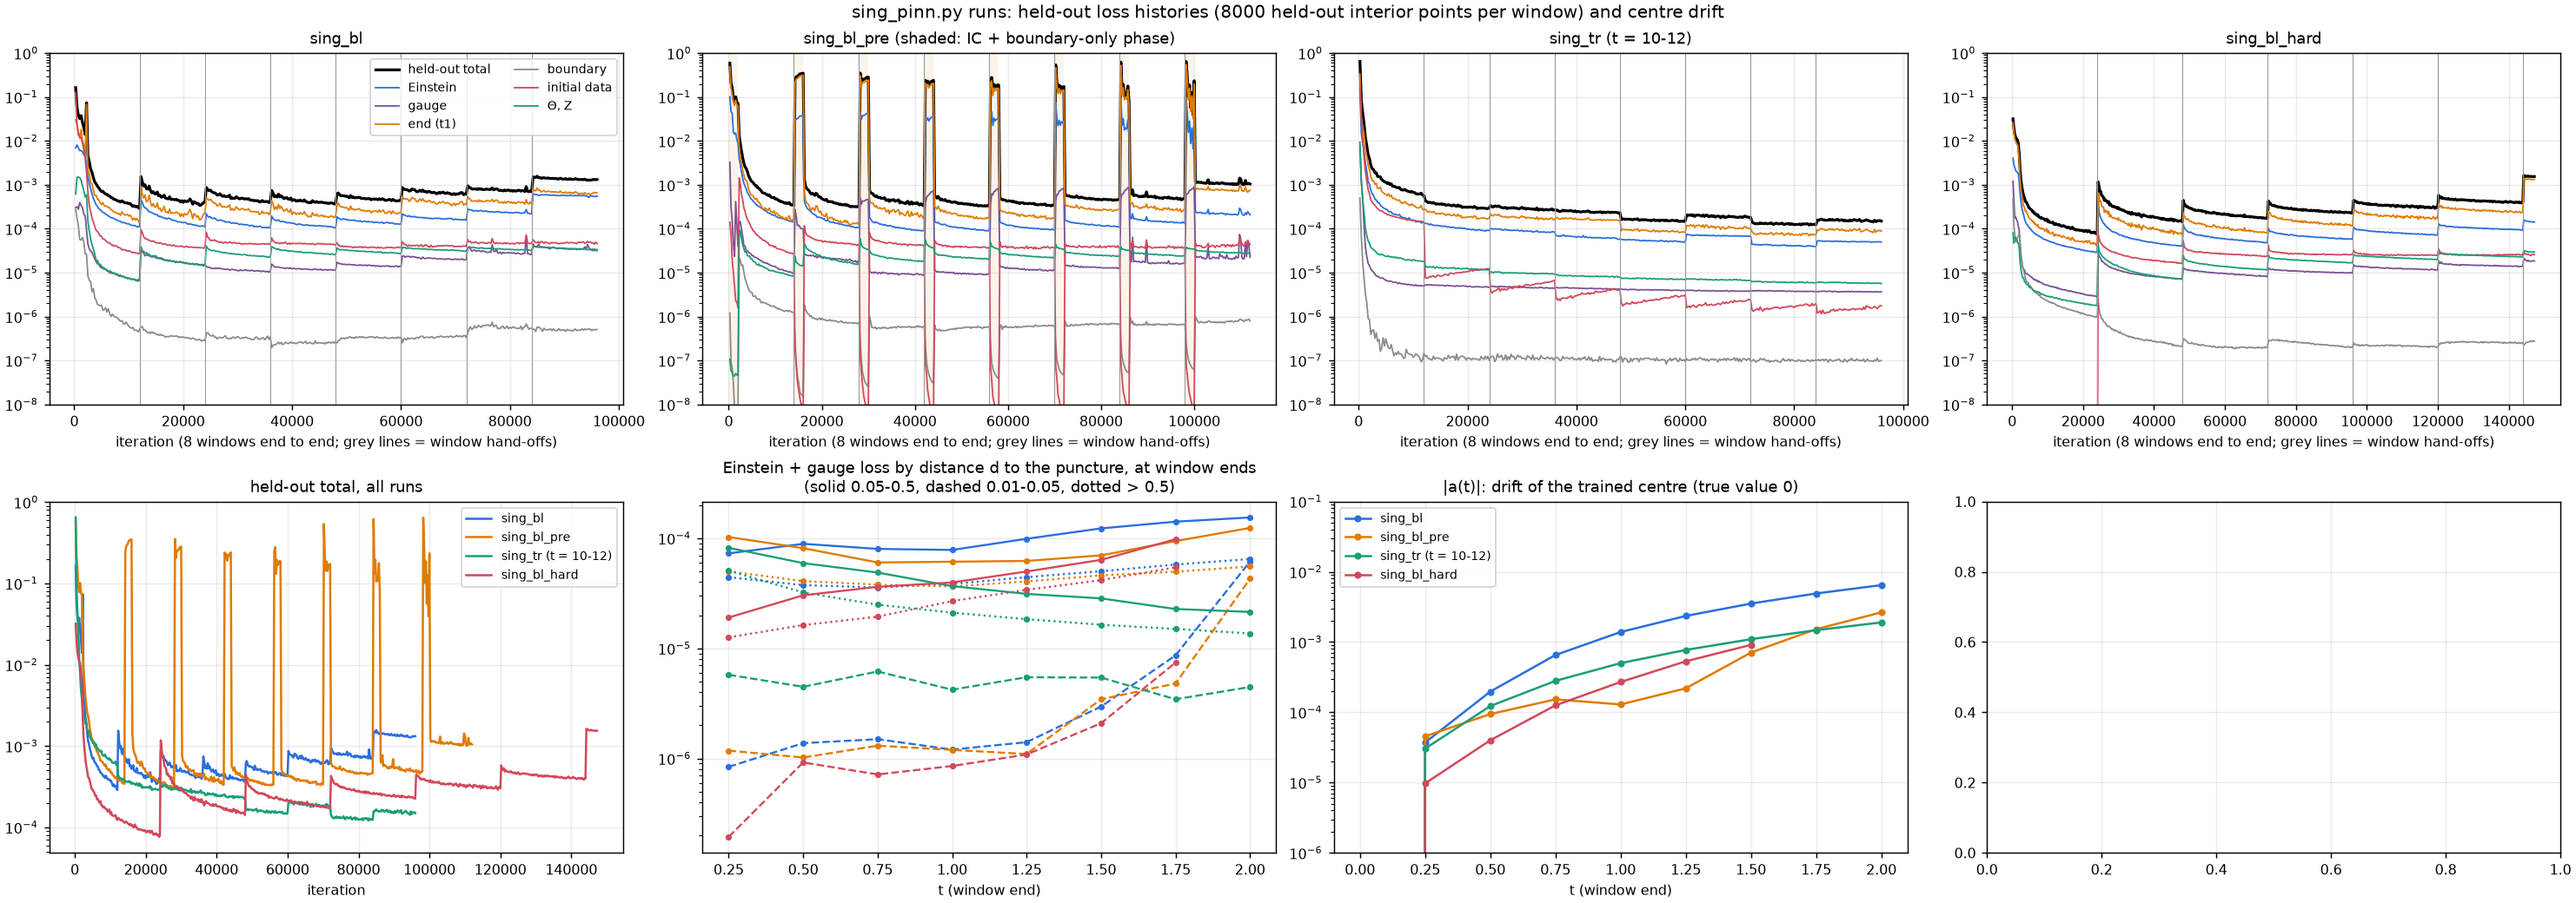
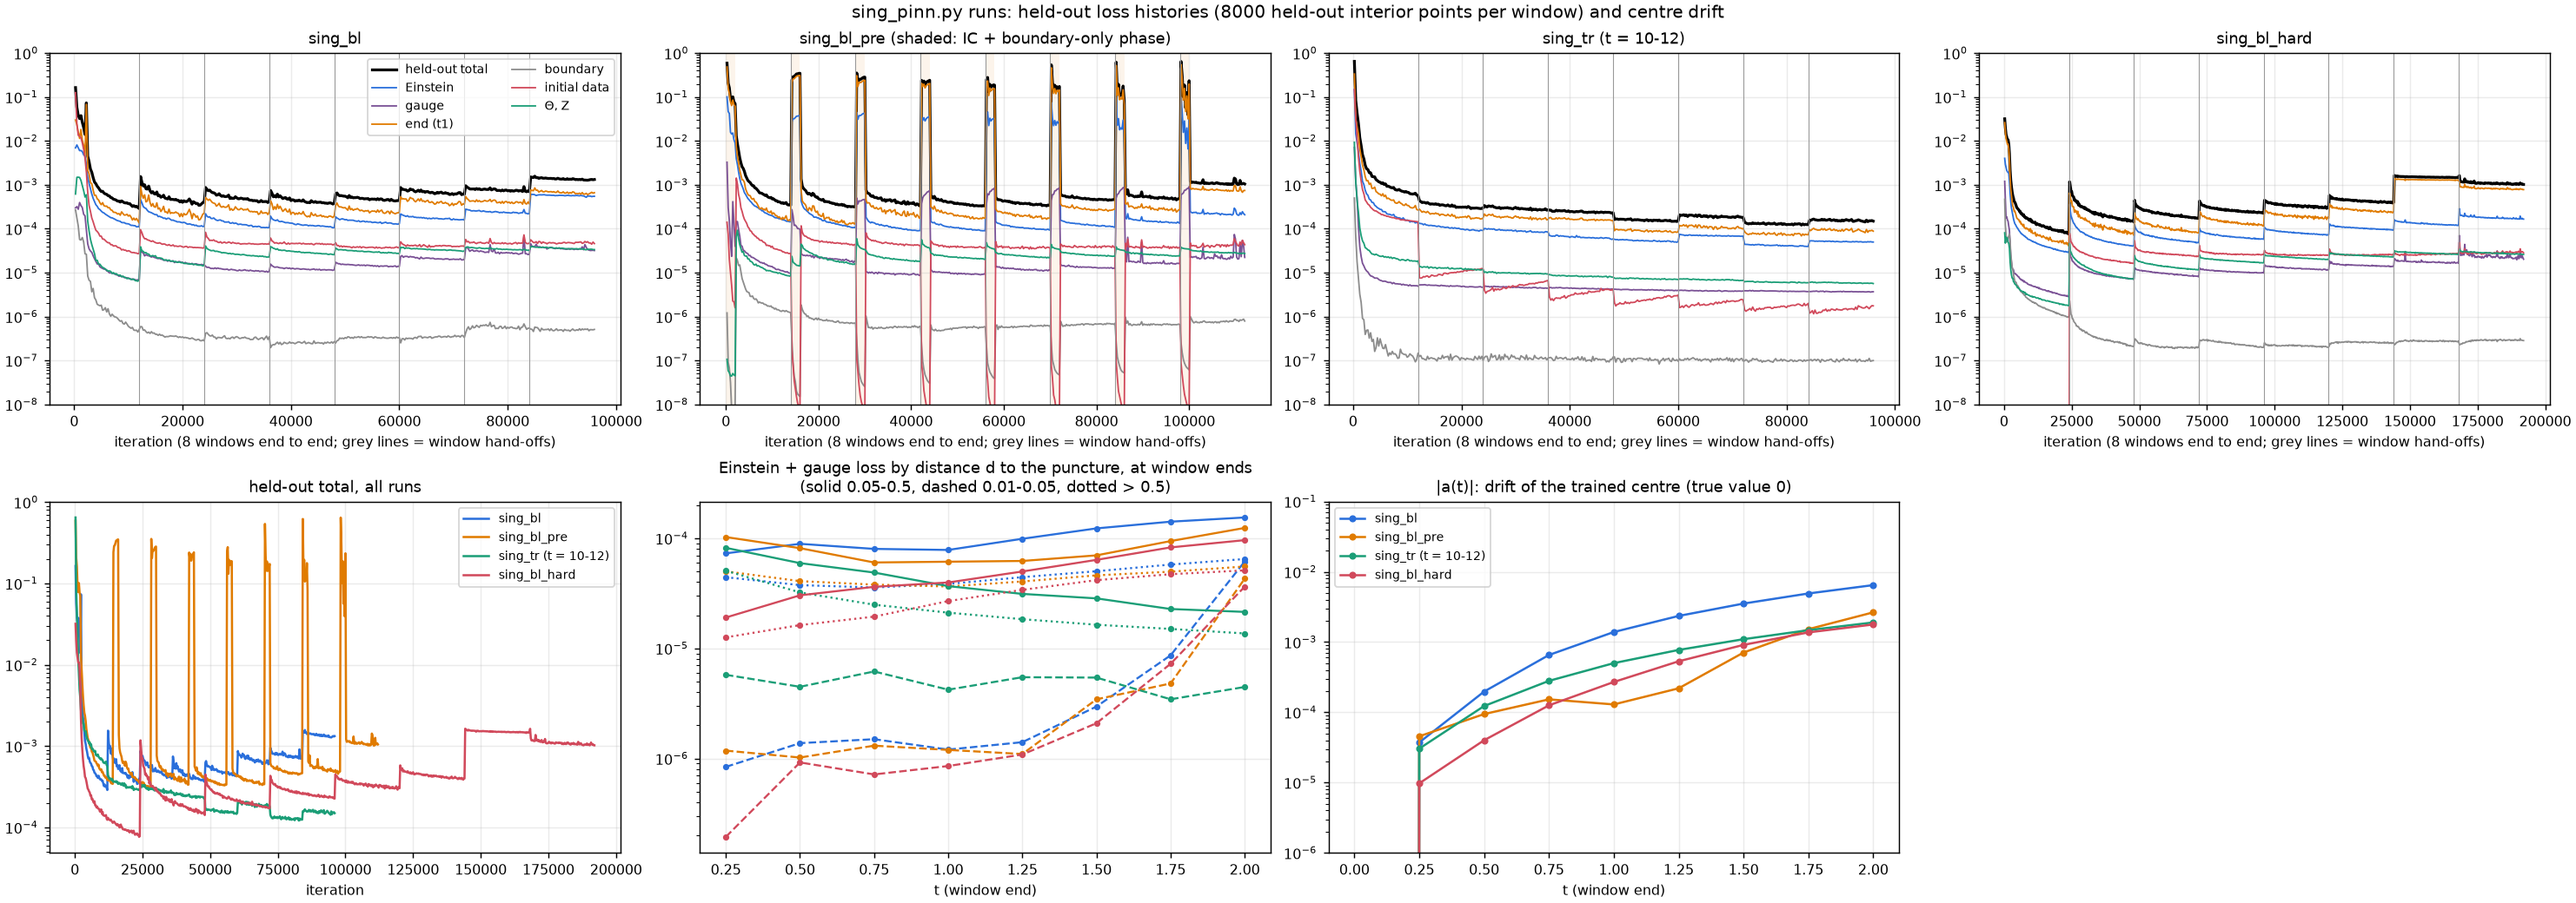
SBH: sing_bl_hard finished; graded at t = 2 against the baseline (core rms, mass, drift); plots updated

diff --git a/SBH/tools/plot_sing_mass.py b/SBH/tools/plot_sing_mass.py
@@ -129,6 +129,8 @@ ax.set_ylim(1e-6, 1e-1)
 ax.set_title("|a(t)|: drift of the trained centre (true value 0)")
 ax.set_xlabel("t (window end)")
 ax.legend(fontsize=8)
+for ax in axs[1, 3:]:
+    ax.set_visible(False)
 fig.suptitle("sing_pinn.py runs: held-out loss histories (8000 held-out interior points per window) and centre drift",
              fontsize=11)
 fig.savefig(os.path.join(OUT, "sing_losses.png"), dpi=130)

diff --git a/SBH/README.md b/SBH/README.md
@@ -1238,6 +1238,27 @@ the loss is a mean over the points, the sampling density is also the weight of t
 weights the residual squared by r^-3. Log-uniform on 0.2-24 instead would give ~43000 / 61600 / 23400 in
 0.2-1 / 1-10 / 10-24, close to the baseline.
 
+**`sing_bl_hard` finished (2026-10-30 18:46 UTC; two hub stops, resumed with the same command each time,
+windows 6 and 7 restarted from their start). Final grades at t = 2, core rms vs the 1D reference:**
+
+| run | alpha | chi | Khat | gt | alpha(0.03) (ref 0.2814) |
+|---|---|---|---|---|---|
+| baseline w8_qn_con10 | 7.1e-4 | - | 8.7e-3 | 1.8e-3 | - |
+| sing_bl_hard | 7.6e-3 | 7.8e-4 | 1.1e-2 | 4.7e-3 | 0.2820 |
+| sing_bl_pre | 1.3e-2 | 8.3e-4 | 1.9e-2 | 5.6e-3 | - |
+| sing_bl | 2.0e-2 | 1.9e-3 | 3.3e-2 | 6.4e-3 | 0.2821 |
+
+Mass <m/M - 1> at t = 2: baseline -3.6e-3 / -2.1e-3 / -3.9e-3 / -4.9e-3 at r = 0.3 / 1 / 3 / 10;
+sing_bl_hard -1.1e-2 / -1.1e-2 / -3.6e-2 / +2.8e-2; sing_bl_pre -1.4e-2 / -1.6e-2 / +2.2e-3 / +7.9e-2.
+Centre drift |a(2)| = 1.8e-3 (sing_bl_pre 2.7e-3, sing_bl 6.5e-3). Loss: window 6's end term jumped to
+1.3e-3 from 2.4e-4 at the end of window 5 and stayed there in window 7 (held-out total 1.5e-3 -> 1.0e-3);
+the restarts do not explain it (window 6 reached the same values in all three attempts).
+Verdict: exact initial data are the best of the sing variants (alpha 1.7x, Khat 1.7x better than
+sing_bl_pre at t = 2, mass 2-3x smaller at r <= 3), but the run is still 10x the baseline in alpha, 2.5x in
+gt, 3-10x in mass; Khat is comparable. The IC is not the limiting error; the evolution in 1 <= r <= 10 is.
+Plots: `plots/2026-10-30/sing_mass_*.png`, `sing_losses.png`, `sing_ic_error.png` (now with sing_bl_hard:
+exactly 0 at t = 0 in every panel).
+
 **Two at once does not fit (2026-10-29).** `sing_bl_ic` and `sing_bl_ic_t05`, launched together on the hub
 A30 with `XLA_PYTHON_CLIENT_MEM_FRACTION=0.47` each, both died with RESOURCE_EXHAUSTED (8.06 GiB in one
 allocation) at the first full-phase iteration: the allocator kept the ~4.3 GB of the IC phase and the full
